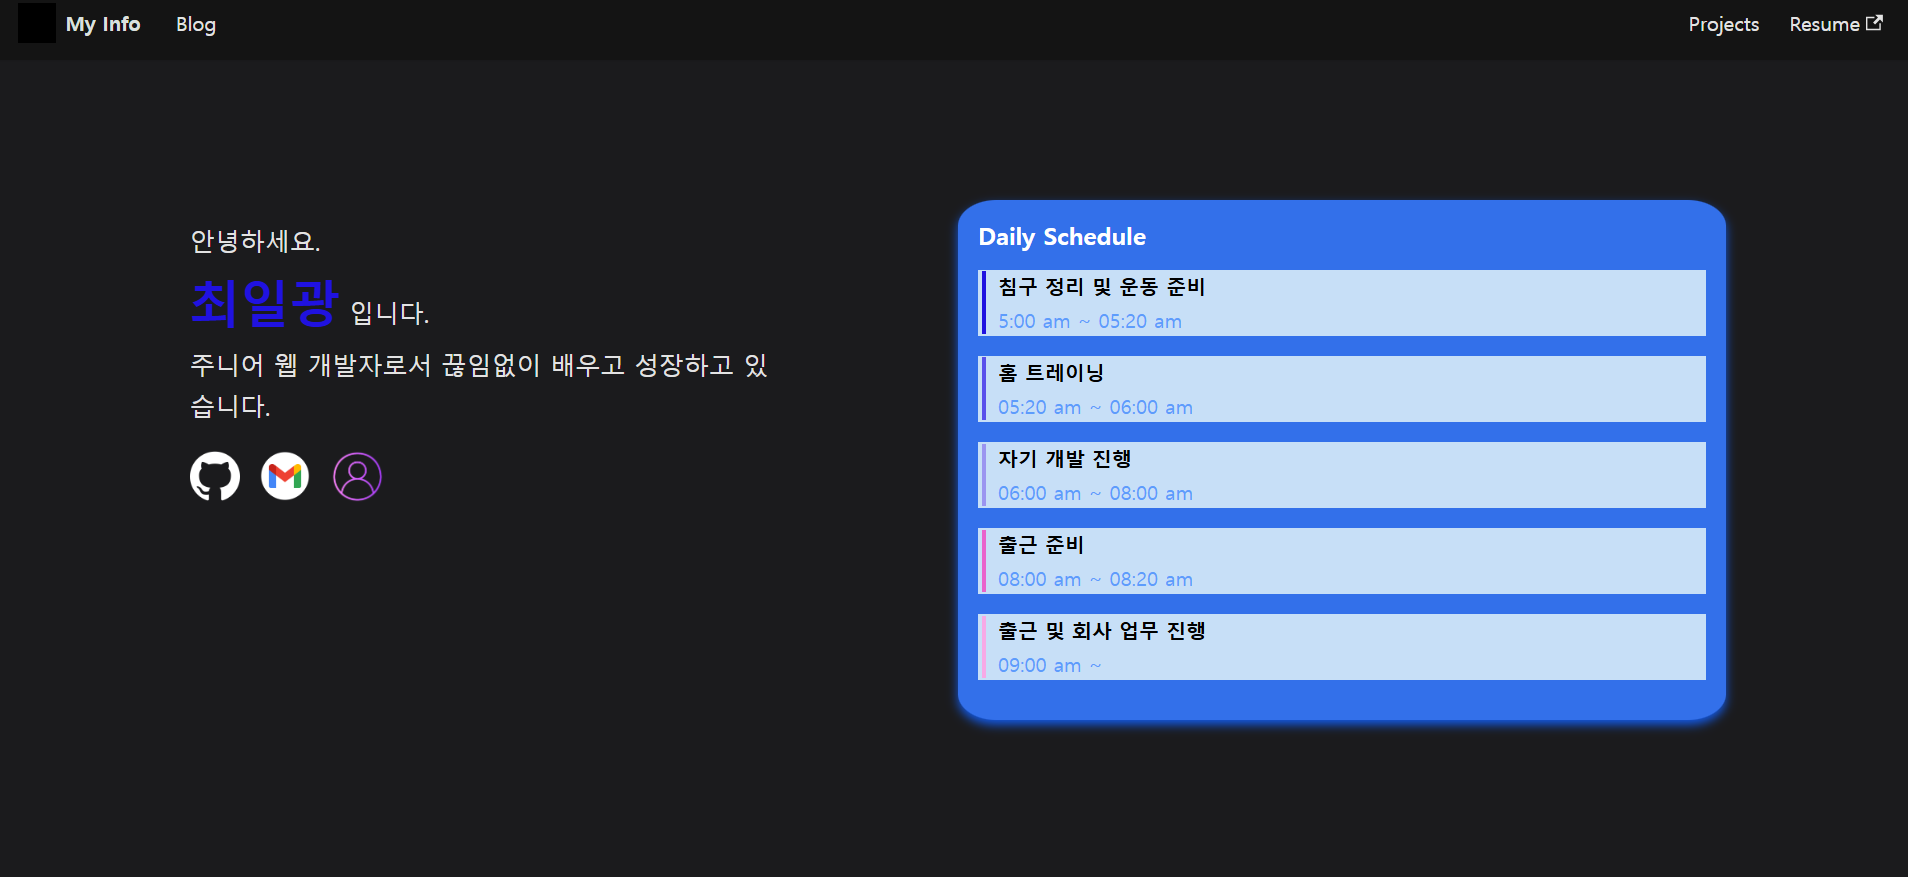
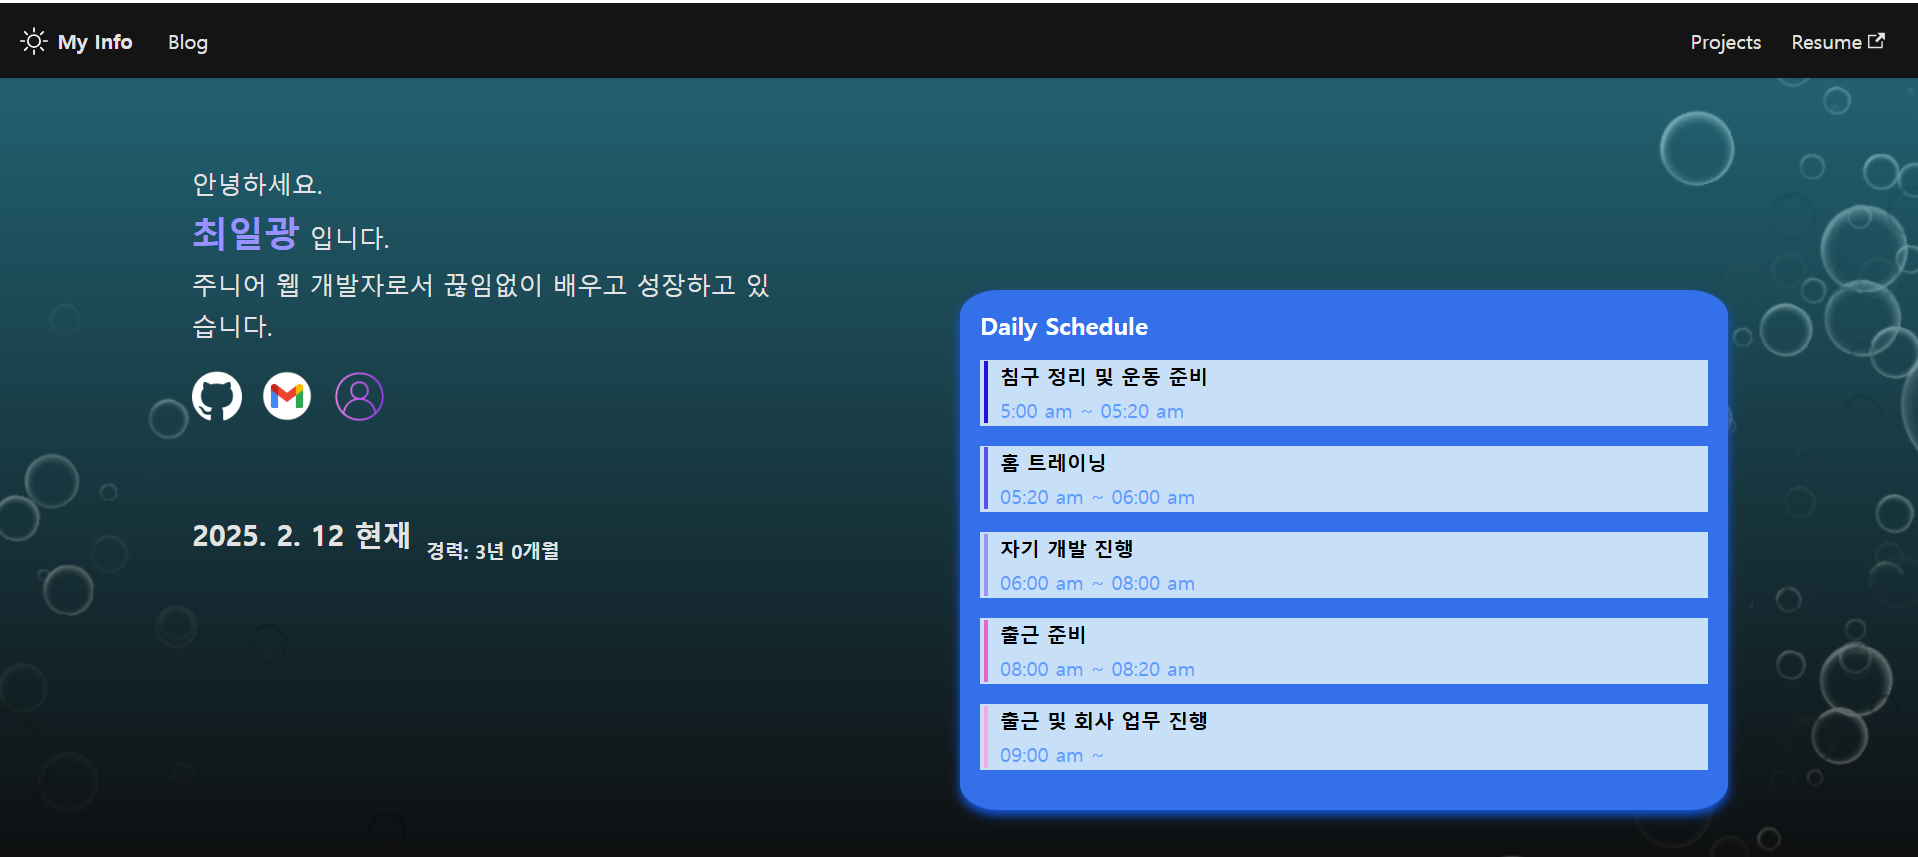
blog 프로젝테 내용 수정
blog 프로젝테 내용 수정

diff --git a/src/data/_Projects.js b/src/data/_Projects.js
@@ -8,7 +8,7 @@ const projects = [
     slug: "#blog",
     imageUrl: "img/blog/blog_main.png",
     subtitle:
-      "2주에 한번씩 여러 개발자분들과 진행하는 스터디에서, Docusaurus 알게 되어 관심을 가지고 개발을 진행하게 되었습니다.",
+      "회사 업무 중 이전에 사용한 기술을 다시 활용해야 할 때마다 검색에 많은 시간이 걸렸습니다. 이를 줄이고 업무 효율을 높이기 위해  블로그에 기록하여 시간을 효과적으로 활용하기 위해 시작하였습니다. ",
     period: "January 2025 to Present",
     tech: "Docusaurus 3.5.2, ReactJS",
     description: (
@@ -22,16 +22,11 @@ const projects = [
             ReactJS
           </a>
           를 사용하여 개발을 진행하고 있습니다.
-          .
-        </p>
-        <p>
           2025년 01월에 시작하여 현재까지 커스터 마이징을 지속적으로 진행하고 있습니다.
         </p>
        
         <p>
-        </p>
-        <p>
-          이 블로그는 Evan Tay 소스를 커스터 마이징하여 개발 되었습니다.
+          <a>이 블로그는 Evan Tay 소스를 커스터 마이징하여 개발 되었습니다.</a>
         </p>
       </>
     ),
